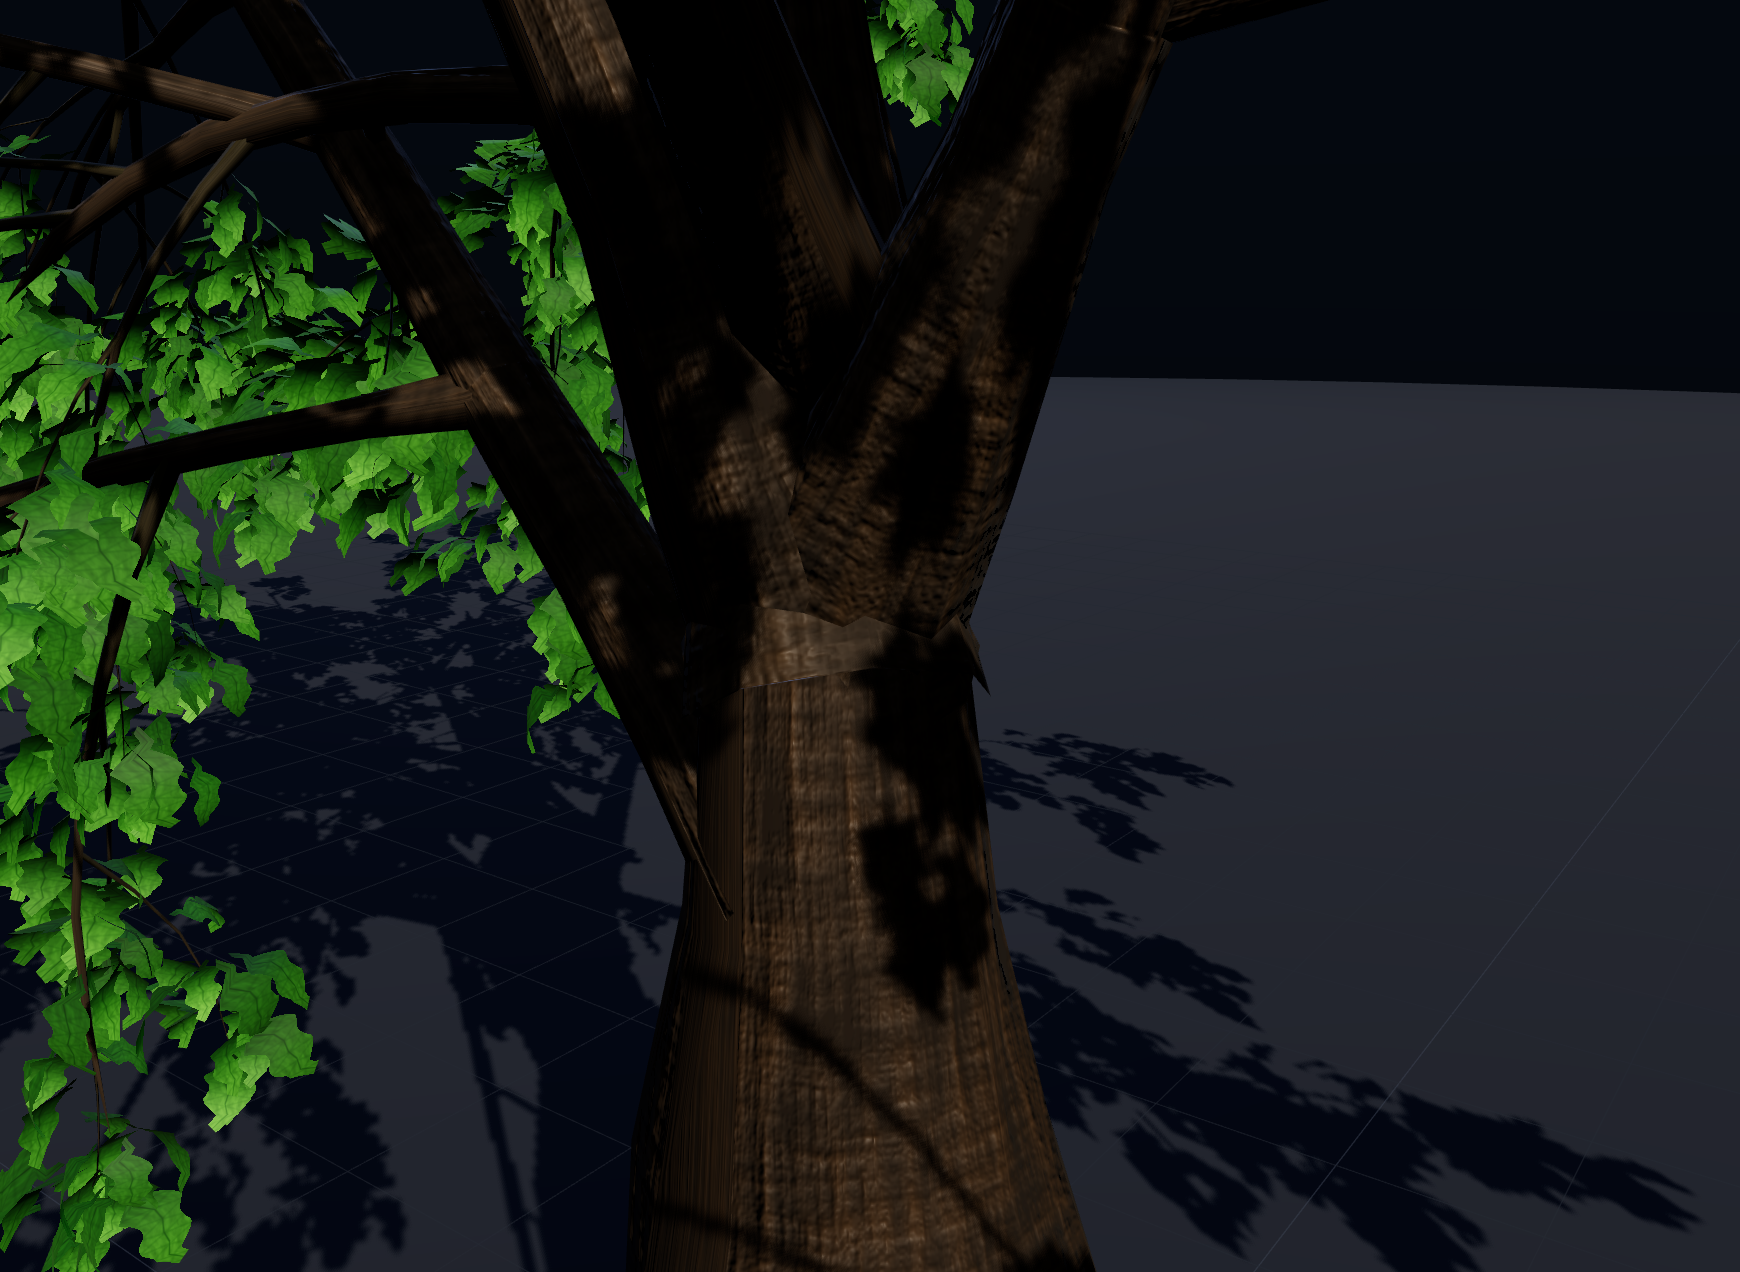
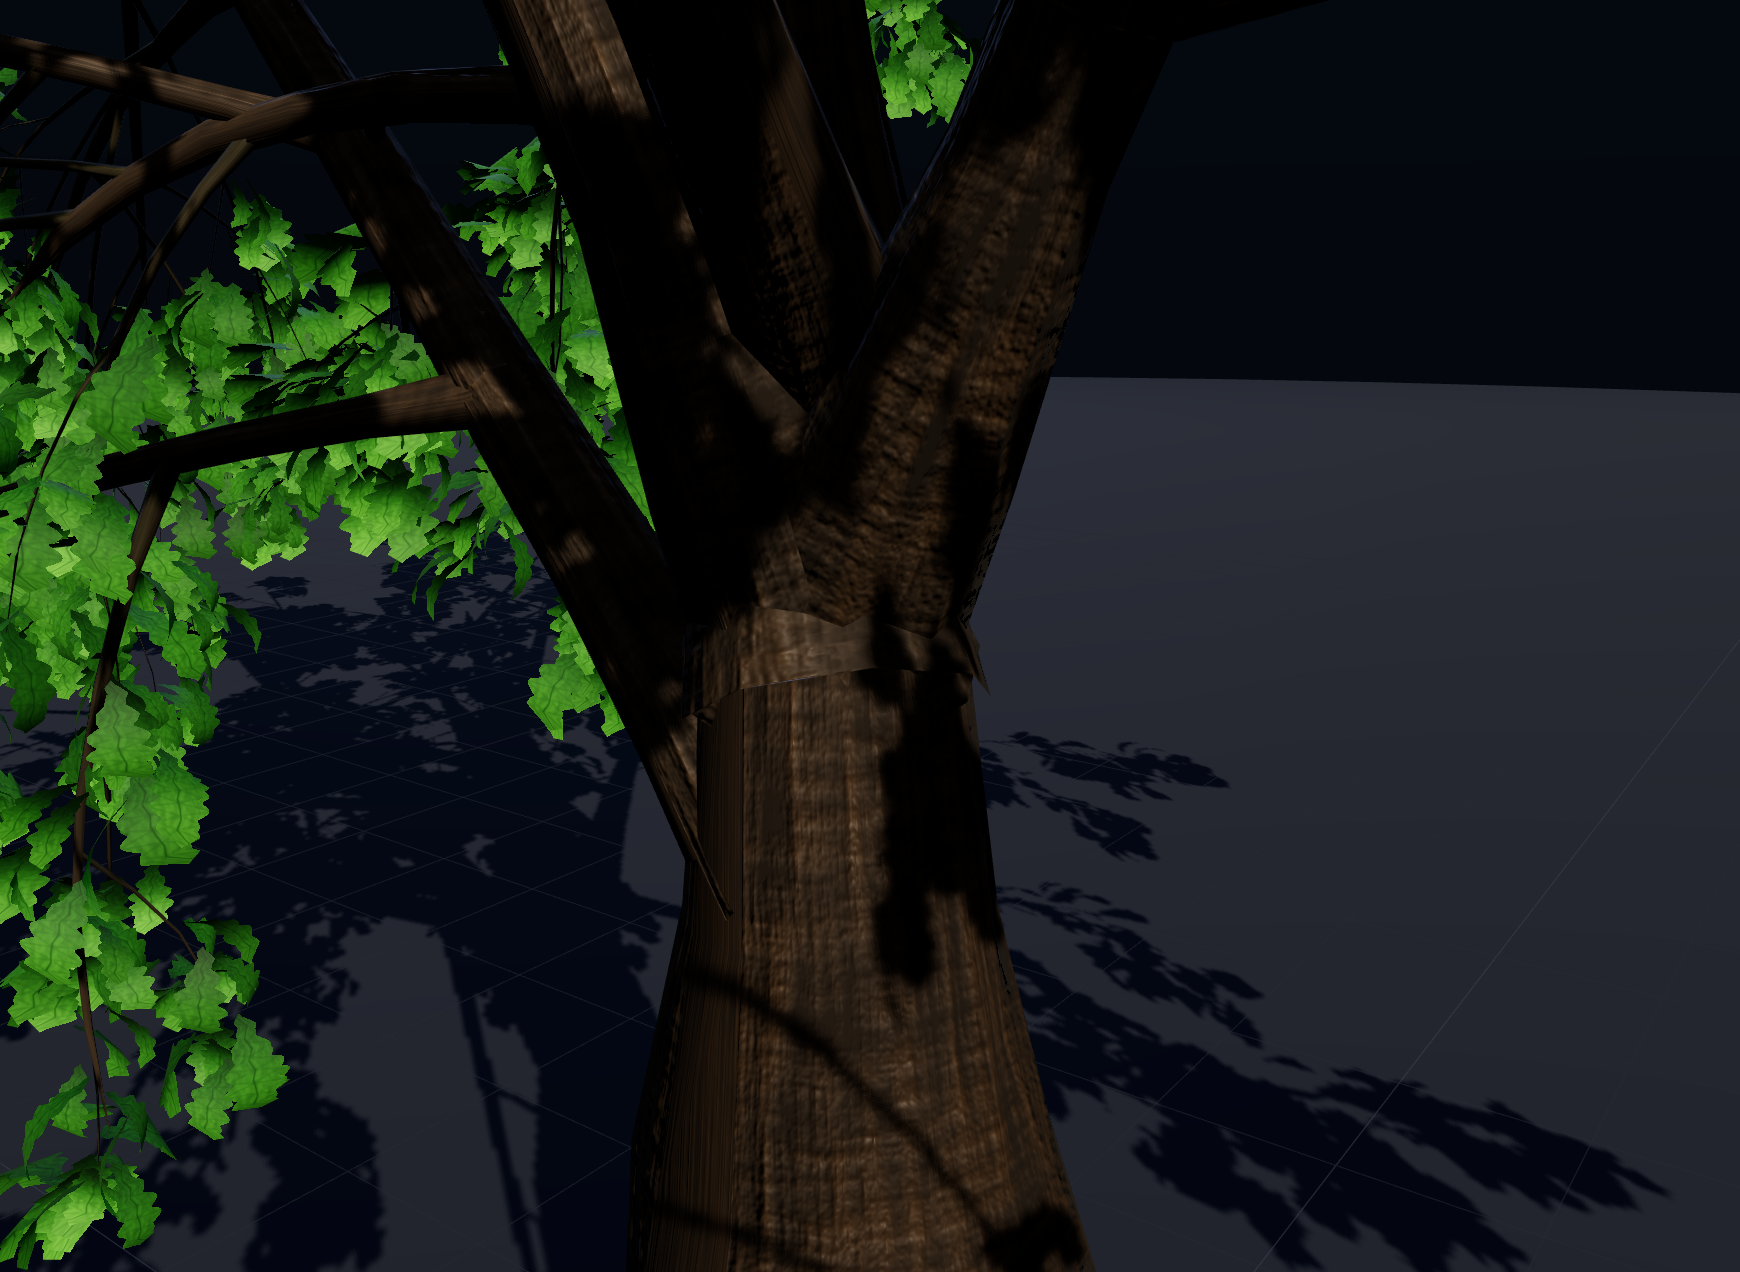
fix(fruit): 果实真正挂在枝条上 (原来悬在枝外, 果柄朝外)
问题: 果实以"枝轴"为中心放置 (偏移量最多 0.07m), 而且果柄方向取反了 ->
果柄朝下/朝外, 果身浮在枝旁, 看起来就是"不挂枝"。

修复:
- 挂果点取枝条下表面: 绕枝轴随机方位后强制朝下 (radial·UP > 0 则取反), 再沿半径 0.9r 放到表面上
- 果柄方向改为"由果实指向枝条"(主要朝上, 略沿枝轴): 果柄末端落在表面, 果身自然垂在枝下
- 同一簇的散开改为沿枝长参数偏移 (而不是世界坐标平移) -> 永远不会滑出枝条
- 新增 stats.fruitAttach (挂果点) 供自检验证

验证 (自检 [12] 新增断言):
- 挂在枝条上: 380/380 个挂果点到枝条三角面的最近距离 <= 2cm (实测最远 3.7mm)
  用点到三角面距离而不是到顶点距离, 因为枝条环间距可达 6cm, 顶点距离测不出真实贴合
- 果实有独立节点组, 面数在预算内, 橡树预置 acorn 默认开启
- selftest 103/103; audit 0 失效; build 通过
- docs/preview-oak-acorn.png: 无叶状态下的挂果特写 (便于看清果实-枝条关系)

diff --git a/src/core/treeBuilder.js b/src/core/treeBuilder.js
@@ -74,6 +74,7 @@ export function buildTree(params) {
   const leafRng = makeRng(P.seed, 'leaves')
   const fruitRng = makeRng(P.seed, 'fruit')
   let fruitCount = 0
+  const fruitAttach = []   // 挂果点 (自检用)
   const fruitAcc = new GeoAcc()
   const levelRng = {}
   for (let i = 1; i <= 5; i++) levelRng[i] = makeRng(P.seed, 'branch-level-' + i)
@@ -485,14 +486,15 @@ export function buildTree(params) {
       capColor: F.capColor,
       radial: F.radial,
     })
+    // 模板里果柄顶端在 +Y ≈ 0.56 -> 让果柄末端正好落在枝条表面 (略微插进去一点)
+    const stemHalf = 0.56
+    // 枝条总长: 用来把"簇内偏移"换算成曲线参数, 免得偏移到枝条外面去
+    const branchLen = Math.max(0.01, frames[frames.length - 1].pos.distanceTo(frames[0].pos))
     let fruitSlot = -1
     for (let k = 0; k < count; k++) {
       const tt = 0.35 + 0.65 * ((k + 0.5) / count) + rng.signed() * 0.06
-      const fr = sampleFrame(frames, Math.min(0.98, Math.max(0.05, tt)))
-      if (!fr) continue
-      const perp = anyPerp(fr.dir)
-      const az = rng.range(0, Math.PI * 2)
-      const side = perp.clone().applyAxisAngle(fr.dir, az)
+      const fr0 = sampleFrame(frames, Math.min(0.98, Math.max(0.05, tt)))
+      if (!fr0) continue
       if (fruitSlot < 0) {
         levelFruitCounter[level] = (levelFruitCounter[level] || 0) + 1
         fruitSlot = addSlot({
@@ -505,28 +507,39 @@ export function buildTree(params) {
         })
       }
       for (let j = 0; j < per; j++) {
-        const off = side.clone().multiplyScalar(rng.range(-F.clusterRadius, F.clusterRadius))
-        off.addScaledVector(perp.clone().applyAxisAngle(fr.dir, rng.range(0, Math.PI * 2)), rng.range(0, F.clusterRadius))
-        // 果实沿枝条方向朝下挂 (橡果挂在枝下)
-        const dir = fr.dir.clone()
-        rotateTowardUp(dir, F.droop * rng.range(0.7, 1.2))
-        dir.negate()
+        // 同簇果实沿**枝长参数**散开 (不是在世界坐标里平移) -> 永远贴在枝条表面上
+        const dT = (rng.range(-F.clusterRadius, F.clusterRadius) * 1.4) / branchLen
+        const t = Math.min(0.995, Math.max(0.02, tt + dT))
+        const fr = sampleFrame(frames, t)
+        if (!fr) continue
+        // 挂果方位: 绕枝轴随机, 以"枝条下表面"为主
+        const az = Math.PI + rng.range(-0.9, 0.9)
+        const radial = azimuthPerp(fr.dir, az, new THREE.Vector3())
+        if (radial.dot(UP) > 0) radial.negate()      // 指向下方 = 枝条下表面
+        const surface = fr.pos.clone().addScaledVector(radial, Math.max(0.004, fr.radius) * 0.9)
         const scale = Math.max(0.01, F.size * rng.vary(F.sizeVariance))
-        const tint = new THREE.Color(1, 1, 1).multiplyScalar(Math.max(0.2, 1 + rng.signed() * F.colorVariance))
+        const scaleY = scale * 1.25
+        // 果柄方向: 从果实指向枝条 (主要朝上, 略沿枝轴) -> 果实自然垂在枝下
+        const stemDir = UP.clone().lerp(fr.dir, F.droop * 0.35 * rng.range(0.5, 1.3)).normalize()
+        // 果柄末端贴着枝条表面 -> 果实中心 = 表面点 - 果柄方向 × 果柄长度
+        const pos = surface.clone().addScaledVector(stemDir, -stemHalf * scaleY * 0.92)
         if (fruitCount >= Math.max(0, Math.round(F.maxCount === undefined ? 420 : F.maxCount))) continue
         if (fruitCount > 0 && !rng.chance(F.chance === undefined ? 0.5 : F.chance)) continue
+        const tint = new THREE.Color(1, 1, 1).multiplyScalar(Math.max(0.2, 1 + rng.signed() * F.colorVariance))
         pushFruitInstance(fruitAcc, fruitTpl, {
-          pos: fr.pos.clone().add(off),
-          dir,
+          pos,
+          dir: stemDir,
           roll: rng.range(0, Math.PI * 2),
-          scale: new THREE.Vector3(scale, scale * 1.25, scale),
+          scale: new THREE.Vector3(scale, scaleY, scale),
           colorTint: tint,
           wind: Math.min(1, branchWind + 0.05),
           phase: rng.range(0, Math.PI * 2),
           grow: Math.min(1, LEVEL_GROW[Math.min(level, LEVEL_GROW.length - 1)][1] + 0.06),
-          origin: fr.pos.clone(),
+          origin: surface.clone(),
           nodeId: fruitSlot,
         })
+        // 记录挂果点 (自检用来验证"真的挂在枝条上")
+        fruitAttach.push([surface.x, surface.y, surface.z])
         fruitCount++
       }
     }
@@ -610,6 +623,7 @@ export function buildTree(params) {
       branches: branchCount,
       leaves: leafCount,
     fruit: fruitCount,
+    fruitAttach,
       barkTriangles: barkGeometry.index ? barkGeometry.index.count / 3 : 0,
       leafTriangles: leafGeometry && leafGeometry.index ? leafGeometry.index.count / 3 : 0,
       barkVertices: barkGeometry.attributes.position ? barkGeometry.attributes.position.count : 0,

diff --git a/dev/gallery-check.html b/dev/gallery-check.html
@@ -104,9 +104,18 @@
           state.params.fruit.enabled = true
           win.__fastTreeSceneApi.rebuildNow(false)
           await sleep(150)
-          const leafY = st.height * 0.62
-          sc.controls.target.set(0, leafY, 0)
-          sc.camera.position.set(3.0, leafY + 1.2, 4.2)
+          // 先临时关掉叶子, 让"果实挂枝"一眼可见
+          state.params.leaves.enabled = false
+          win.__fastTreeSceneApi.rebuildNow(false)
+          await sleep(150)
+          // 直接对准一个"挂果点" -> 不靠运气
+          const att = (state.stats.fruitAttach || [])
+          // 选离主干最远的一个挂果点 (外圈枝条, 不会被主干挡住)
+          let a = [0, st.height * 0.7, 0]
+          let bestR = -1
+          for (const p of att) { const r = Math.hypot(p[0], p[2]); if (r > bestR) { bestR = r; a = p } }
+          sc.controls.target.set(a[0], a[1], a[2])
+          sc.camera.position.set(a[0] + 0.5, a[1] + 0.22, a[2] + 0.75)
           sc.camera.lookAt(sc.controls.target)
           await shot('oak-acorn-closeup')
           // 线框模式
